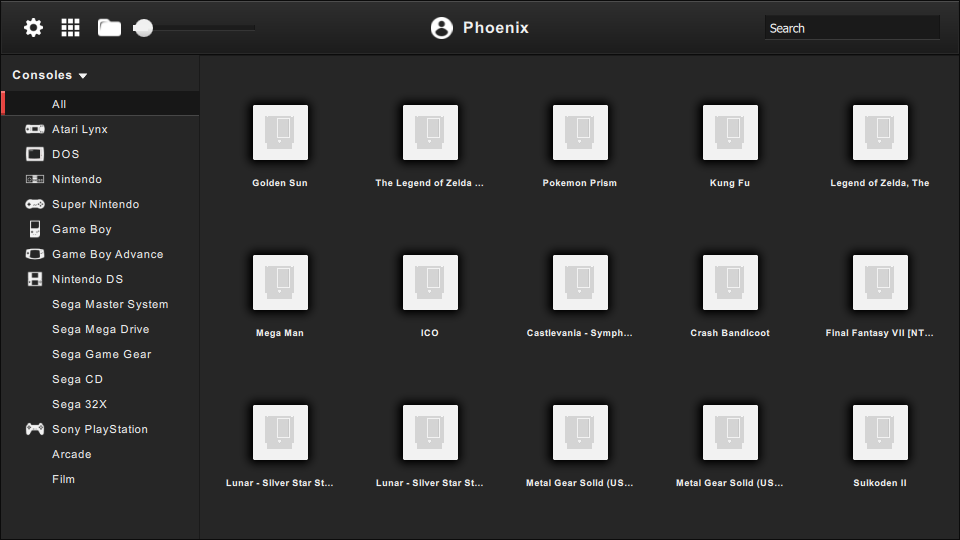
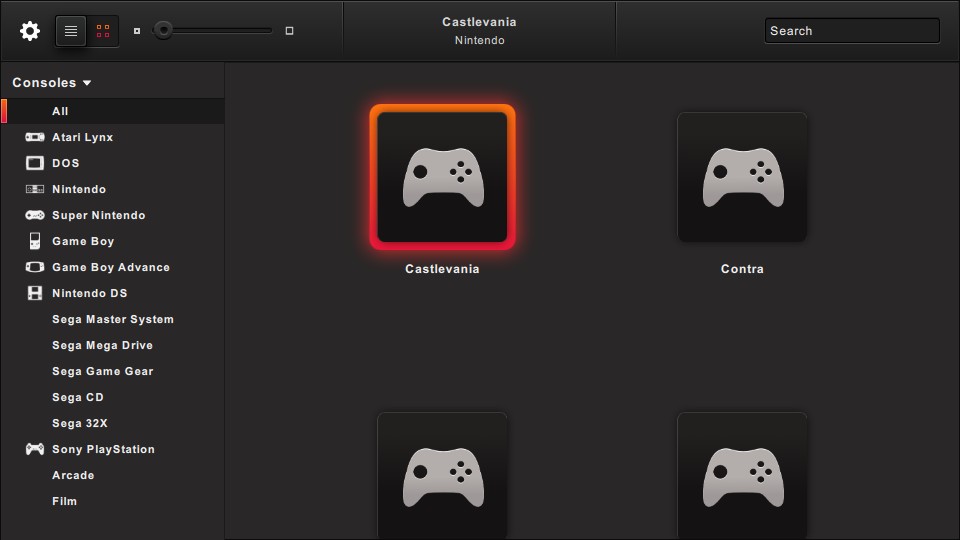
Added rounded corners on artwork in the grid.

diff --git a/qml/RoundedImage.qml b/qml/RoundedImage.qml
@@ -1,0 +1,124 @@
+import QtQuick 2.3
+import QtGraphicalEffects 1.0
+import phoenix.image 1.0
+
+Item {
+    id: roundedImage;
+
+    property real aspectRatio: 1.0;
+    property url source: gridItem.imageSource;
+
+    MouseArea {
+        id: mouseArea;
+        propagateComposedEvents: true;
+        anchors.fill: parent;
+        hoverEnabled: true;
+        enabled: true;
+        property bool containsMouse: false;
+        acceptedButtons: Qt.LeftButton | Qt.RightButton
+
+        onPressed:  {
+
+            gridView.currentIndex = index;
+            gridView.holdItem = pressed;
+            containsMouse = pressed;
+
+        }
+
+        onDoubleClicked: {
+            var curItem = gridView.currentItem;
+            var core = phoenixLibrary.getSystem(curItem.systemName);
+            root.gameAndCoreCheck(curItem.titleName, curItem.systemName, curItem.fileName, core);
+            root.lastGameName = title;
+            root.lastSystemName = system;
+        }
+
+        onClicked: {
+            gridView.currentItem.z = 0;
+            gridView.currentItem.showMenu = false;
+            gridView.currentIndex = index;
+            gridView.currentItem.z = 100;
+
+            if (mouse.button == Qt.RightButton) {
+                if (gridView.currentItem.showMenu)
+                    gridView.currentItem.showMenu = false;
+                else
+                    gridView.currentItem.showMenu = true;
+            }
+
+            if (windowStack.currentItem.run)
+                headerBar.userText = gridItem.titleName;
+        }
+    }
+
+
+    Image {
+        id: sourceImage
+        source: parent.source;
+        fillMode: Image.PreserveAspectCrop
+        anchors.fill: parent;
+        visible: false
+        asynchronous: true;
+        onPaintedHeightChanged:  {
+            gridItem.paintedHeight = paintedHeight;
+            roundedImage.aspectRatio = paintedWidth / paintedHeight
+        }
+        onPaintedWidthChanged: gridItem.paintedWidth = paintedWidth;
+
+
+        sourceSize {
+            height: 200;
+            width: 200;
+        }
+
+        onStatusChanged: {
+            if (status == Image.Ready)
+                gridItem.imageLoaded = false;
+            else
+                gridItem.imageLoaded = true;
+        }
+
+        Component.onCompleted: {
+            cachedImage.start();
+        }
+
+        CachedImage {
+            id: cachedImage;
+            imgsrc: sourceImage.source;
+            folder: "Artwork";
+            fileName: gridItem.titleName ? gridItem.titleName : "";
+            cacheDirectory: root.cacheDirectory;
+
+            onLocalsrcChanged: {
+                sourceImage.source = localsrc;
+            }
+        }
+
+        Image {
+            id:  border;
+            source: "../assets/border-highlight.png"
+            anchors.centerIn: parent;
+            height: parent.height;
+            width: parent.width
+            fillMode: Image.Stretch;
+            clip: true;
+            asynchronous: true;
+
+        }
+    }
+
+    Rectangle {
+        id: mask
+        anchors { fill: parent; margins: 18 }
+        color: "black";
+        radius: 4
+        clip: true
+        visible: false
+    }
+
+    OpacityMask {
+        anchors.fill: parent;
+        source: sourceImage;
+        maskSource: mask
+    }
+}

diff --git a/qml/GameGrid.qml b/qml/GameGrid.qml
@@ -4,8 +4,6 @@ import QtQuick.Controls.Styles 1.1
 import QtGraphicalEffects 1.0
 import QtQuick.Layouts 1.1
 
-import phoenix.image 1.0
-
 Rectangle {
     id: gameGrid;
     color: "#262626";
@@ -178,7 +176,6 @@ Rectangle {
             property bool showMenu: false;
             property int paintedWidth: width;
             property int paintedHeight: height;
-            onPaintedHeightChanged: console.log(paintedHeight)
 
             Item {
                 id: subItem;
@@ -207,22 +204,25 @@ Rectangle {
 
                     RectangularGlow {
                         anchors.centerIn: image;
-                        width: image.paintedWidth;
-                        height: image.paintedHeight;
-                        glowRadius: 2;
-                        spread: 0.1;
-                        color: "#f0000000";
-                        cornerRadius: 11 + glowRadius;
+                        width: image.width;
+                        height: image.height;
+                        glowRadius: 3;
+                        spread: 0.3;
+                        color: "black";
+                        cornerRadius: 8;
                     }
 
-                    Image {
+                    RoundedImage {
                         id: image;
                         anchors {
-                            fill: parent;
-                            margins: 10;
+                            top: parent.top;
+                            bottom: parent.bottom;
+                            horizontalCenter: parent.horizontalCenter;
                         }
-                        source: "../assets/No-Art.png"//gridItem.imageSource;
-                        fillMode: Image.PreserveAspectFit;
+
+                        source: gridItem.imageSource;
+                        width: height * aspectRatio;
+                        /*fillMode: Image.PreserveAspectFit;
                         asynchronous: true;
                         onPaintedHeightChanged:  {
                             gridItem.paintedHeight = paintedHeight;
@@ -244,9 +244,9 @@ Rectangle {
 
                         Component.onCompleted: {
                             cachedImage.start();
-                        }
+                        }*/
 
-                        CachedImage {
+                        /*CachedImage {
                             id: cachedImage;
                             imgsrc: image.source;
                             folder: "Artwork";
@@ -299,7 +299,7 @@ Rectangle {
                                 if (windowStack.currentItem.run)
                                     headerBar.userText = gridItem.titleName;
                             }
-                        }
+                        }*/
                     }
                 }
 
